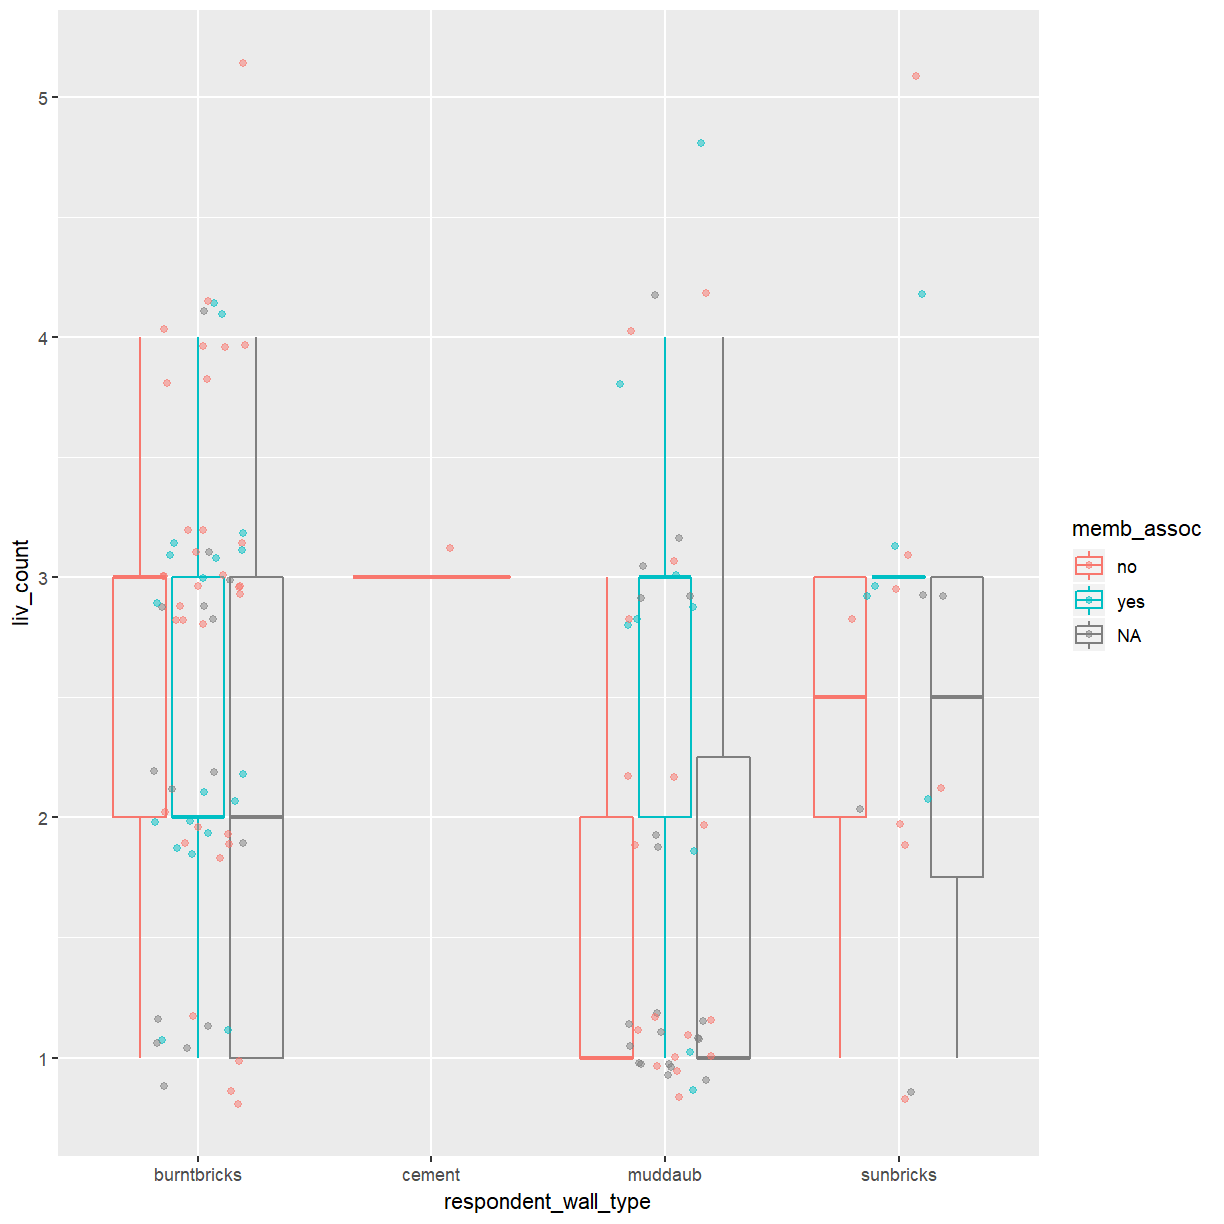
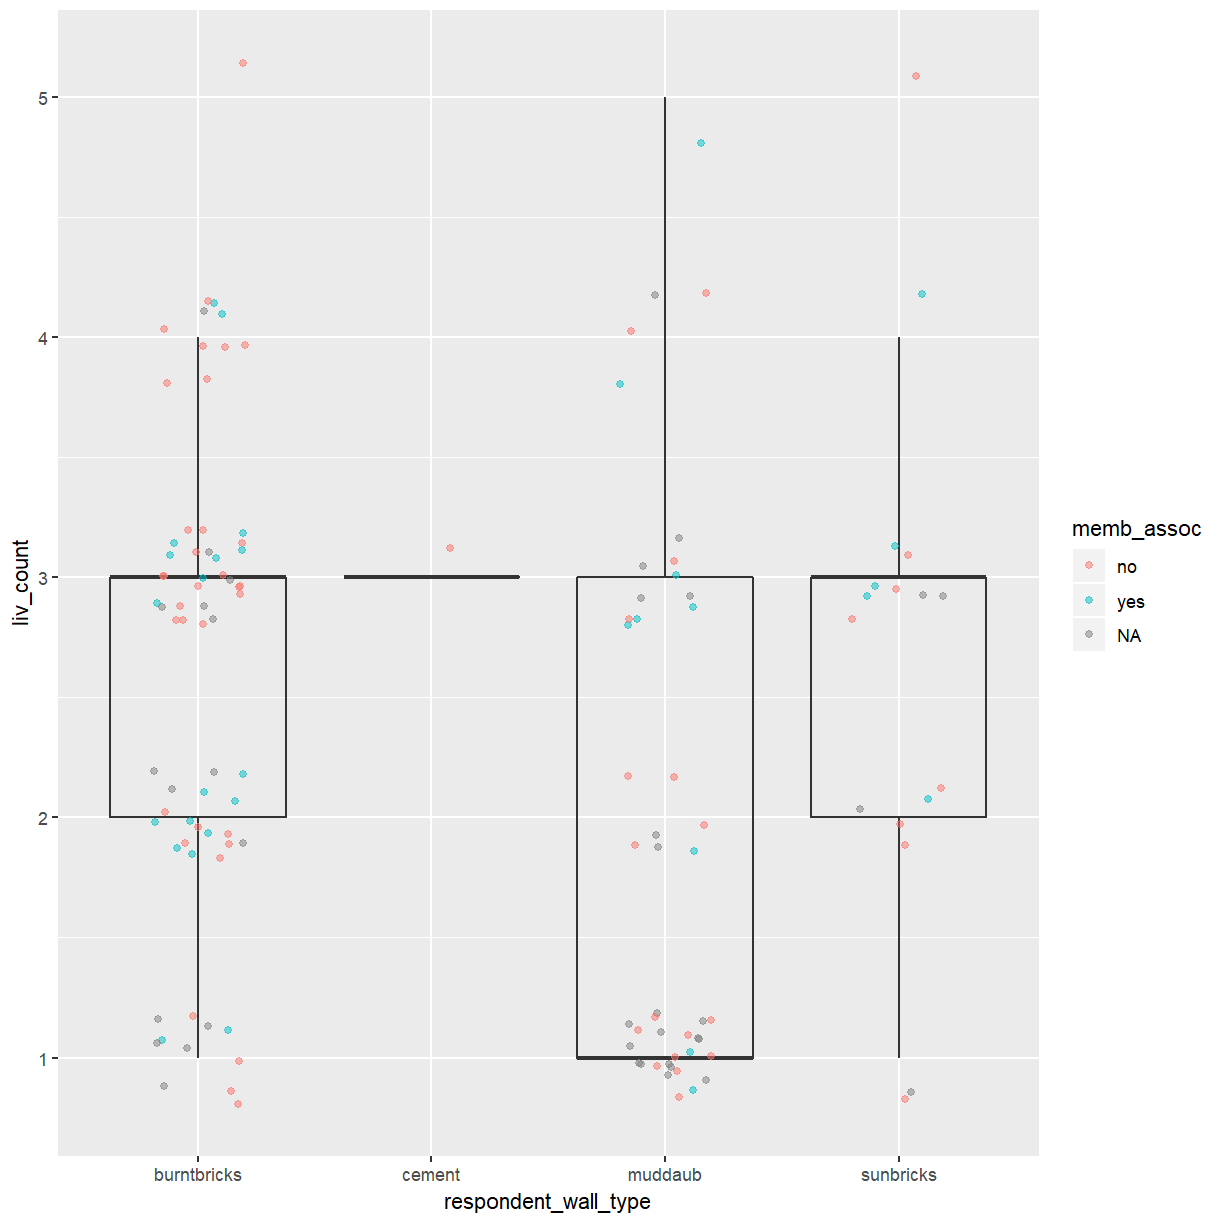
Fix solution code

diff --git a/_episodes/02-categorical-data.md b/_episodes/02-categorical-data.md
@@ -291,9 +291,9 @@ hidden?
 > > ## Solution
 > > 
 > > ~~~
-> > ggplot(data = interviews_plotting, aes(x = respondent_wall_type, y = liv_count, color = memb_assoc)) +
+> > ggplot(data = interviews_plotting, aes(x = respondent_wall_type, y = liv_count)) +
 > >   geom_boxplot(alpha = 0) +
-> >   geom_jitter(, alpha = 0.5, width = 0.2, height = 0.2)
+> >   geom_jitter(aes(color = memb_assoc), alpha = 0.5, width = 0.2, height = 0.2)
 > > ~~~
 > > {: .language-r}
 > > 
